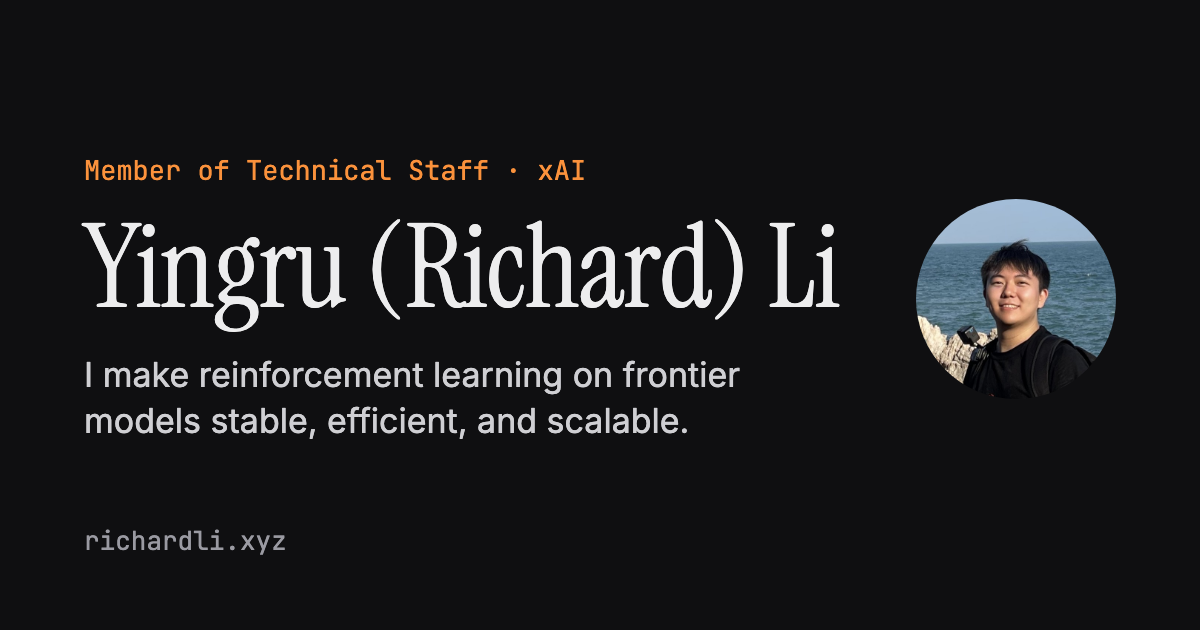
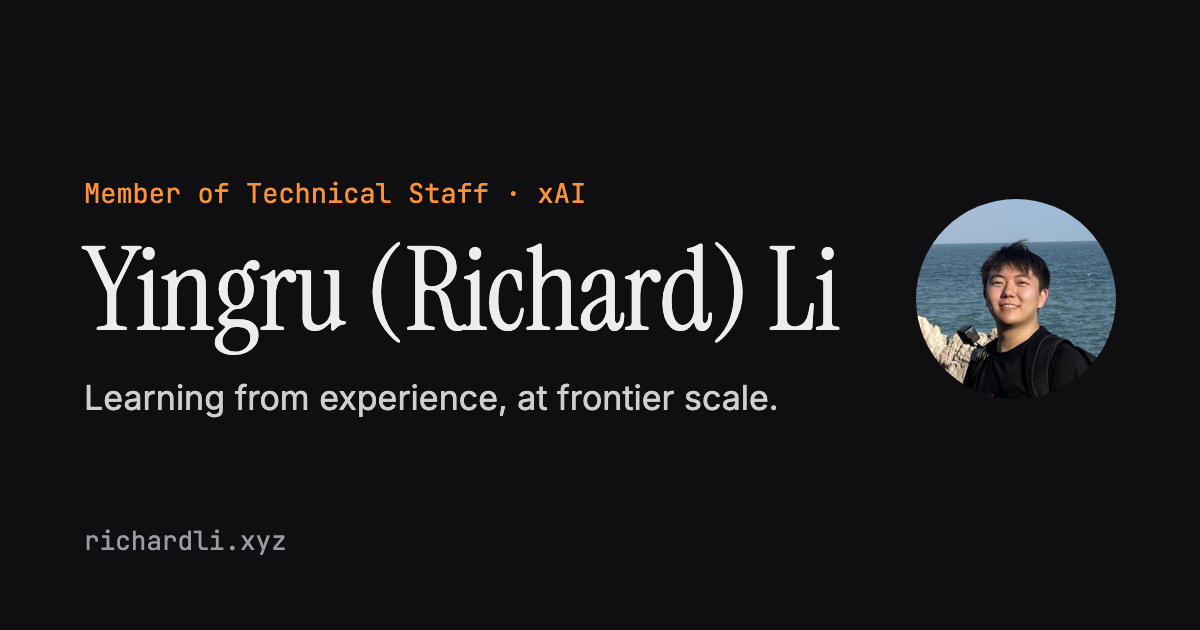
Homepage: align columns with navbar, new tagline, bio emphasis; 16px root on small screens

Changed region(s): [[0.0617, 0.2413, 0.6475, 0.6937], [0.6475, 0.4524, 0.7092, 0.5429], [0.6475, 0.3317, 0.7092, 0.4524]]

diff --git a/assets/scss/custom.scss b/assets/scss/custom.scss
@@ -41,6 +41,9 @@ body.dark {
 
 // ---------- Base ----------
 
+// The theme shrinks the root to 77% below 58em; with font_size S that leaves 12.3px text on phones.
+html { font-size: 16px; }
+
 body {
   background: var(--hp-paper);
   color: var(--hp-ink-soft);
@@ -223,7 +226,10 @@ body.dark .navbar-nav > .nav-item > .nav-link:hover {
 .hp-hero-bio {
   font-size: 1rem;
   line-height: 1.65;
+  color: var(--hp-ink);
   p { margin-bottom: 0.6rem; }
+  p + p { font-size: 0.9rem; line-height: 1.6; color: var(--hp-muted); }
+  strong { font-weight: 600; }
 }
 
 .hp-social {
@@ -523,6 +529,7 @@ body.dark .navbar-nav > .nav-item > .nav-link:hover {
     border-radius: 0;
     padding: 0;
     margin: 0 0 1.2rem;
+    &:last-child { margin-bottom: 0; }
     p { font-size: 0.96rem; line-height: 1.6; color: var(--hp-ink-soft); margin: 0 0 0.4rem; }
   }
   .hp-card-title { font-size: 1.02rem; margin: 0 0 0.3rem; }
@@ -578,21 +585,26 @@ body.dark .navbar-nav > .nav-item > .nav-link:hover {
 @media (min-width: 1200px) {
   .page-body:has(> .wg-home-hero) {
     display: grid;
-    grid-template-columns: 360px 660px;
+    grid-template-columns: 400px minmax(0, 700px);
     column-gap: 88px;
-    justify-content: center;
+    justify-content: space-between;
+    // Matches the navbar's content box: .container-xl (1290px, 15px padding) inside the navbar's 16px padding.
+    width: 100%;
+    max-width: 1322px;
+    margin: 0 auto;
+    padding: 0 31px;
     > section { grid-column: 2; }
     > section > .container { max-width: none; padding-left: 0; padding-right: 0; }
     > #about {
       grid-column: 1;
-      grid-row: 1 / span 5;
+      // Spans more rows than there are sections, so the column stays pinned through the last one.
+      grid-row: 1 / span 20;
       align-self: start;
       padding-top: 56px;
     }
-    > #highlights { padding-top: 64px; }
+    > #highlights { padding-top: 50px; }
     .hp-hero-name { font-size: 2.5rem; }
     .hp-hero-title { font-size: 1.05rem; }
-    .hp-hero-bio { font-size: 0.95rem; }
   }
 }
 

diff --git a/content/authors/admin/_index.md b/content/authors/admin/_index.md
@@ -18,7 +18,7 @@ organizations:
     url: https://x.ai/
 
 # Short bio (displayed in user profile at end of posts)
-bio: Core contributor to RL fundamentals at xAI (now SpaceX Super Intelligence); I make reinforcement learning on frontier models stable, efficient, and scalable.
+bio: Core contributor to RL fundamentals at xAI (now SpaceX Super Intelligence), working on stable, efficient, and scalable reinforcement learning for frontier models.
 
 interests:
   - Reinforcement learning at scale
@@ -63,7 +63,7 @@ social:
 highlight_name: true
 ---
 
-I make reinforcement learning on frontier models stable, efficient, and scalable.
+Learning from experience, at frontier scale.
 
 I am a core contributor to RL fundamentals at [xAI](https://x.ai/) (now SpaceX Super Intelligence), contributing to the Grok RL big runs and to one of the longest stable RL runs to date.
 Before that I led RL stability and efficiency research for LLM reasoning and agents at ByteDance.
